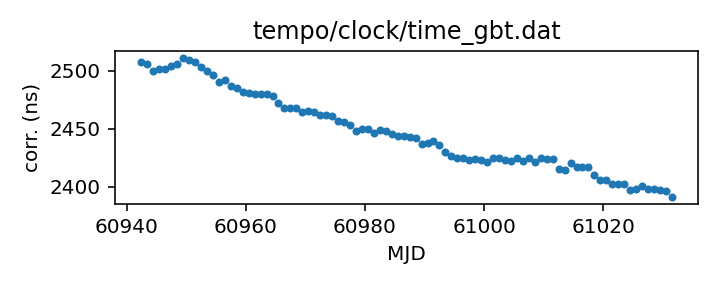
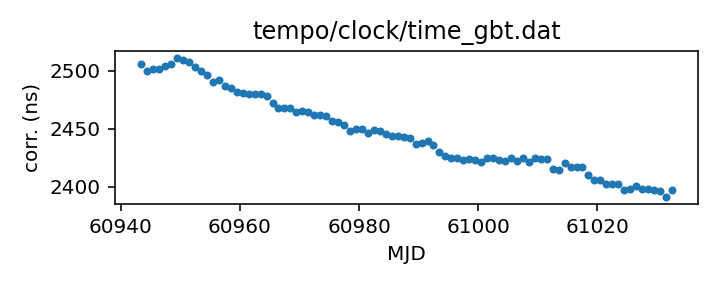
Routine gh-pages update from Github action Wed Dec 24 20:43:52 UTC 2025

diff --git a/status.md b/status.md
@@ -13,18 +13,18 @@ name of each clock file links to a page with more details.
 
 | Name | File | Corrections start | Corrections end | Last check date | Last check result 
 |:--- |:--- | --- | --- | --- |:--- 
-| [GPS to UTC](T2runtime/clock/gps2utc.clk.html) | `T2runtime/clock/gps2utc.clk` | 1993-01-01 MJD 48988.0 | 2025-11-30 MJD 61009.0 | 2025-12-23 | Unchanged 
-| [GPS to UTC (Combined Clock)](T2runtime/clock/gps2utc_cc.clk.html) | `T2runtime/clock/gps2utc_cc.clk` | 1993-01-01 MJD 48988.0 | 2025-11-30 MJD 61009.0 | 2025-12-23 | Unchanged 
-| [GPS to UTC (Corrected)](T2runtime/clock/gps2utc_c0p.clk.html) | `T2runtime/clock/gps2utc_c0p.clk` | 2010-12-29 MJD 55559.0 | 2025-11-30 MJD 61009.0 | 2025-12-23 | Unchanged 
-| [GBT](tempo/clock/time_gbt.dat.html) | `tempo/clock/time_gbt.dat` | 2000-12-31 MJD 51909.5 | 2025-12-22 MJD 61031.5 | 2025-12-23 | Updated 
-| [GBT (TEMPO2 converted from TEMPO)](T2runtime/clock/gbt2gps.clk.html) | `T2runtime/clock/gbt2gps.clk` | 2000-12-31 MJD 51909.5 | 2024-05-18 MJD 60448.5 | 2025-12-23 | **Validation failed** 
+| [GPS to UTC](T2runtime/clock/gps2utc.clk.html) | `T2runtime/clock/gps2utc.clk` | 1993-01-01 MJD 48988.0 | 2025-11-30 MJD 61009.0 | 2025-12-24 | Unchanged 
+| [GPS to UTC (Combined Clock)](T2runtime/clock/gps2utc_cc.clk.html) | `T2runtime/clock/gps2utc_cc.clk` | 1993-01-01 MJD 48988.0 | 2025-11-30 MJD 61009.0 | 2025-12-24 | Unchanged 
+| [GPS to UTC (Corrected)](T2runtime/clock/gps2utc_c0p.clk.html) | `T2runtime/clock/gps2utc_c0p.clk` | 2010-12-29 MJD 55559.0 | 2025-11-30 MJD 61009.0 | 2025-12-24 | Unchanged 
+| [GBT](tempo/clock/time_gbt.dat.html) | `tempo/clock/time_gbt.dat` | 2000-12-31 MJD 51909.5 | 2025-12-23 MJD 61032.5 | 2025-12-24 | Updated 
+| [GBT (TEMPO2 converted from TEMPO)](T2runtime/clock/gbt2gps.clk.html) | `T2runtime/clock/gbt2gps.clk` | 2000-12-31 MJD 51909.5 | 2024-05-18 MJD 60448.5 | 2025-12-24 | **Validation failed** 
 | [Jodrell Bank](T2runtime/clock/jb2gps.clk.html) | `T2runtime/clock/jb2gps.clk` | 2006-10-13 MJD 54021.4 | 2025-10-08 MJD 60956.0 | 2025-12-22 | **Validation failed** 
 | [Jodrell Bank Roach](T2runtime/clock/jbroach2jb.clk.html) | `T2runtime/clock/jbroach2jb.clk` | 2006-10-13 MJD 54021.4 | 2018-03-20 MJD 58197.6 | 2025-12-22 | Unchanged 
 | [Jodrell Bank DFB](T2runtime/clock/jbdfb2jb.clk.html) | `T2runtime/clock/jbdfb2jb.clk` | 2006-10-13 MJD 54021.4 | 2021-02-22 MJD 59268.0 | 2025-12-22 | Unchanged 
 | [Meerkat (observatory)](T2runtime/clock/mk2utc_observatory.clk.html) | `T2runtime/clock/mk2utc_observatory.clk` | 2019-01-01 MJD 58484.0 | 2025-12-06 MJD 61016.0 | 2025-12-22 | Unchanged 
-| [Leap seconds](tempo/clock/leap.sec.html) | `tempo/clock/leap.sec` | 1972-07-01 MJD 41499.0 | 2017-01-01 MJD 57754.0 | 2025-12-23 | Unchanged 
-| [UT1 table](tempo/clock/ut1.dat.html) | `tempo/clock/ut1.dat` | 1973-01-02 MJD 41684.0 | 2026-12-26 MJD 61400.0 | 2025-12-23 | Unchanged 
-| [UT1 table](T2runtime/clock/ut1.dat.html) | `T2runtime/clock/ut1.dat` | 1973-01-02 MJD 41684.0 | 2026-12-26 MJD 61400.0 | 2025-12-23 | Unchanged 
+| [Leap seconds](tempo/clock/leap.sec.html) | `tempo/clock/leap.sec` | 1972-07-01 MJD 41499.0 | 2017-01-01 MJD 57754.0 | 2025-12-24 | Unchanged 
+| [UT1 table](tempo/clock/ut1.dat.html) | `tempo/clock/ut1.dat` | 1973-01-02 MJD 41684.0 | 2026-12-26 MJD 61400.0 | 2025-12-24 | Unchanged 
+| [UT1 table](T2runtime/clock/ut1.dat.html) | `T2runtime/clock/ut1.dat` | 1973-01-02 MJD 41684.0 | 2026-12-26 MJD 61400.0 | 2025-12-24 | Unchanged 
 
 
 

diff --git a/T2runtime/clock/gbt2gps.clk.md b/T2runtime/clock/gbt2gps.clk.md
@@ -25,12 +25,11 @@ If questions arise about the conversion, contact Anne Archibald
 | Clock file start | 2000-12-31 MJD 51909.5 |
 | Clock file end | 2024-05-18 MJD 60448.5 |
 | Update interval (days) | 1 |
-| Last update attempt | 2025-12-23 |
+| Last update attempt | 2025-12-24 |
 | Last update result | Validation failed |
 
 Log entries from the last few update attempts:
 ```
-2025-12-14 20:42:13.657 - Validation failed: New version of T2runtime/clock/gbt2gps.clk MJDs differ from old version where they overlap in 8407 places
 2025-12-15 20:46:25.577 - Validation failed: New version of T2runtime/clock/gbt2gps.clk MJDs differ from old version where they overlap in 8407 places
 2025-12-16 20:45:44.575 - Validation failed: New version of T2runtime/clock/gbt2gps.clk MJDs differ from old version where they overlap in 8407 places
 2025-12-17 20:46:13.616 - Validation failed: New version of T2runtime/clock/gbt2gps.clk MJDs differ from old version where they overlap in 8407 places
@@ -40,6 +39,7 @@ Log entries from the last few update attempts:
 2025-12-21 20:42:17.023 - Validation failed: New version of T2runtime/clock/gbt2gps.clk MJDs differ from old version where they overlap in 8407 places
 2025-12-22 20:44:22.465 - Validation failed: New version of T2runtime/clock/gbt2gps.clk MJDs differ from old version where they overlap in 8407 places
 2025-12-23 20:43:40.394 - Validation failed: New version of T2runtime/clock/gbt2gps.clk MJDs differ from old version where they overlap in 8407 places
+2025-12-24 20:43:30.054 - Validation failed: New version of T2runtime/clock/gbt2gps.clk MJDs differ from old version where they overlap in 8407 places
 ```
 [Full log](https://raw.githubusercontent.com/ipta/pulsar-clock-corrections/main/log/T2runtime/clock/gbt2gps.clk.log)
 

diff --git a/tempo/clock/time_gbt.dat.md b/tempo/clock/time_gbt.dat.md
@@ -36,14 +36,13 @@ If questions arise, contact Ryan S. Lynch <rlynch@nrao.edu>.
 | Format | tempo |
 | Bogus last correction | False |
 | Clock file start | 2000-12-31 MJD 51909.5 |
-| Clock file end | 2025-12-22 MJD 61031.5 |
+| Clock file end | 2025-12-23 MJD 61032.5 |
 | Update interval (days) | 1 |
-| Last update attempt | 2025-12-23 |
+| Last update attempt | 2025-12-24 |
 | Last update result | Updated |
 
 Log entries from the last few update attempts:
 ```
-2025-12-14 20:42:13.586 - Updated
 2025-12-15 20:46:24.831 - Updated
 2025-12-16 20:45:44.496 - Updated
 2025-12-17 20:46:13.546 - Updated
@@ -53,12 +52,13 @@ Log entries from the last few update attempts:
 2025-12-21 20:42:16.953 - Updated
 2025-12-22 20:44:22.159 - Updated
 2025-12-23 20:43:40.325 - Updated
+2025-12-24 20:43:29.984 - Updated
 ```
 [Full log](https://raw.githubusercontent.com/ipta/pulsar-clock-corrections/main/log/tempo/clock/time_gbt.dat.log)
 
 Leading comments from clock file:
 
-     -2271.50       0.0        -0.486 1    32766-dec
+     -2271.50       0.0        -0.486 1    32765-dec
 
 
 

diff --git a/T2runtime/clock/gps2utc_c0p.clk.md b/T2runtime/clock/gps2utc_c0p.clk.md
@@ -30,12 +30,11 @@ about the BIPM's published corrections, contact <tai@bipm.org>.
 | Clock file start | 2010-12-29 MJD 55559.0 |
 | Clock file end | 2025-11-30 MJD 61009.0 |
 | Update interval (days) | 1 |
-| Last update attempt | 2025-12-23 |
+| Last update attempt | 2025-12-24 |
 | Last update result | Unchanged |
 
 Log entries from the last few update attempts:
 ```
-2025-12-14 20:42:12.588 - Unchanged
 2025-12-15 20:46:23.932 - Unchanged
 2025-12-16 20:45:43.409 - Unchanged
 2025-12-17 20:46:13.249 - Unchanged
@@ -45,6 +44,7 @@ Log entries from the last few update attempts:
 2025-12-21 20:42:16.629 - Unchanged
 2025-12-22 20:44:21.585 - Unchanged
 2025-12-23 20:43:39.901 - Unchanged
+2025-12-24 20:43:29.497 - Unchanged
 ```
 [Full log](https://raw.githubusercontent.com/ipta/pulsar-clock-corrections/main/log/T2runtime/clock/gps2utc_c0p.clk.log)
 

diff --git a/T2runtime/clock/gps2utc_cc.clk.md b/T2runtime/clock/gps2utc_cc.clk.md
@@ -29,12 +29,11 @@ about the BIPM's published corrections, contact <tai@bipm.org>.
 | Clock file start | 1993-01-01 MJD 48988.0 |
 | Clock file end | 2025-11-30 MJD 61009.0 |
 | Update interval (days) | 1 |
-| Last update attempt | 2025-12-23 |
+| Last update attempt | 2025-12-24 |
 | Last update result | Unchanged |
 
 Log entries from the last few update attempts:
 ```
-2025-12-14 20:42:12.580 - Unchanged
 2025-12-15 20:46:23.923 - Unchanged
 2025-12-16 20:45:43.399 - Unchanged
 2025-12-17 20:46:13.241 - Unchanged
@@ -44,6 +43,7 @@ Log entries from the last few update attempts:
 2025-12-21 20:42:16.621 - Unchanged
 2025-12-22 20:44:21.576 - Unchanged
 2025-12-23 20:43:39.893 - Unchanged
+2025-12-24 20:43:29.489 - Unchanged
 ```
 [Full log](https://raw.githubusercontent.com/ipta/pulsar-clock-corrections/main/log/T2runtime/clock/gps2utc_cc.clk.log)
 

diff --git a/T2runtime/clock/gps2utc.clk.md b/T2runtime/clock/gps2utc.clk.md
@@ -32,12 +32,11 @@ about the BIPM's published corrections, contact <tai@bipm.org>.
 | Clock file start | 1993-01-01 MJD 48988.0 |
 | Clock file end | 2025-11-30 MJD 61009.0 |
 | Update interval (days) | 1 |
-| Last update attempt | 2025-12-23 |
+| Last update attempt | 2025-12-24 |
 | Last update result | Unchanged |
 
 Log entries from the last few update attempts:
 ```
-2025-12-14 20:42:12.558 - Unchanged
 2025-12-15 20:46:23.901 - Unchanged
 2025-12-16 20:45:43.374 - Unchanged
 2025-12-17 20:46:13.219 - Unchanged
@@ -47,6 +46,7 @@ Log entries from the last few update attempts:
 2025-12-21 20:42:16.599 - Unchanged
 2025-12-22 20:44:21.554 - Unchanged
 2025-12-23 20:43:39.871 - Unchanged
+2025-12-24 20:43:29.466 - Unchanged
 ```
 [Full log](https://raw.githubusercontent.com/ipta/pulsar-clock-corrections/main/log/T2runtime/clock/gps2utc.clk.log)
 

diff --git a/T2runtime/clock/ut1.dat.md b/T2runtime/clock/ut1.dat.md
@@ -30,12 +30,11 @@ If there are any questions, contact Anne Archibald
 | File start | 1973-01-02 MJD 41684.0 |
 | File end | 2026-12-26 MJD 61400.0 |
 | Update interval (days) | 0 |
-| Last update attempt | 2025-12-23 |
+| Last update attempt | 2025-12-24 |
 | Last update result | Unchanged |
 
 Log entries from the last few update attempts:
 ```
-2025-12-14 20:42:26.470 - Unchanged
 2025-12-15 20:47:00.215 - Unchanged
 2025-12-16 20:45:58.109 - Unchanged
 2025-12-17 20:46:21.645 - Unchanged
@@ -45,5 +44,6 @@ Log entries from the last few update attempts:
 2025-12-21 20:42:25.307 - Unchanged
 2025-12-22 20:44:44.275 - Unchanged
 2025-12-23 20:43:48.518 - Unchanged
+2025-12-24 20:43:38.792 - Unchanged
 ```
 [Full log](https://raw.githubusercontent.com/ipta/pulsar-clock-corrections/main/log/T2runtime/clock/ut1.dat.log)

diff --git a/tempo/clock/leap.sec.md b/tempo/clock/leap.sec.md
@@ -21,12 +21,11 @@ If there are any questions, contact Anne Archibald
 | File start | 1972-07-01 MJD 41499.0 |
 | File end | 2017-01-01 MJD 57754.0 |
 | Update interval (days) | 0 |
-| Last update attempt | 2025-12-23 |
+| Last update attempt | 2025-12-24 |
 | Last update result | Unchanged |
 
 Log entries from the last few update attempts:
 ```
-2025-12-14 20:42:13.684 - Unchanged
 2025-12-15 20:46:47.625 - Unchanged
 2025-12-16 20:45:44.601 - Unchanged
 2025-12-17 20:46:13.642 - Unchanged
@@ -36,5 +35,6 @@ Log entries from the last few update attempts:
 2025-12-21 20:42:17.049 - Unchanged
 2025-12-22 20:44:36.691 - Unchanged
 2025-12-23 20:43:40.420 - Unchanged
+2025-12-24 20:43:30.080 - Unchanged
 ```
 [Full log](https://raw.githubusercontent.com/ipta/pulsar-clock-corrections/main/log/tempo/clock/leap.sec.log)

diff --git a/tempo/clock/ut1.dat.md b/tempo/clock/ut1.dat.md
@@ -30,12 +30,11 @@ If there are any questions, contact Anne Archibald
 | File start | 1973-01-02 MJD 41684.0 |
 | File end | 2026-12-26 MJD 61400.0 |
 | Update interval (days) | 0 |
-| Last update attempt | 2025-12-23 |
+| Last update attempt | 2025-12-24 |
 | Last update result | Unchanged |
 
 Log entries from the last few update attempts:
 ```
-2025-12-14 20:42:26.420 - Unchanged
 2025-12-15 20:47:00.166 - Unchanged
 2025-12-16 20:45:58.061 - Unchanged
 2025-12-17 20:46:21.596 - Unchanged
@@ -45,5 +44,6 @@ Log entries from the last few update attempts:
 2025-12-21 20:42:25.259 - Unchanged
 2025-12-22 20:44:44.228 - Unchanged
 2025-12-23 20:43:48.469 - Unchanged
+2025-12-24 20:43:38.743 - Unchanged
 ```
 [Full log](https://raw.githubusercontent.com/ipta/pulsar-clock-corrections/main/log/tempo/clock/ut1.dat.log)
